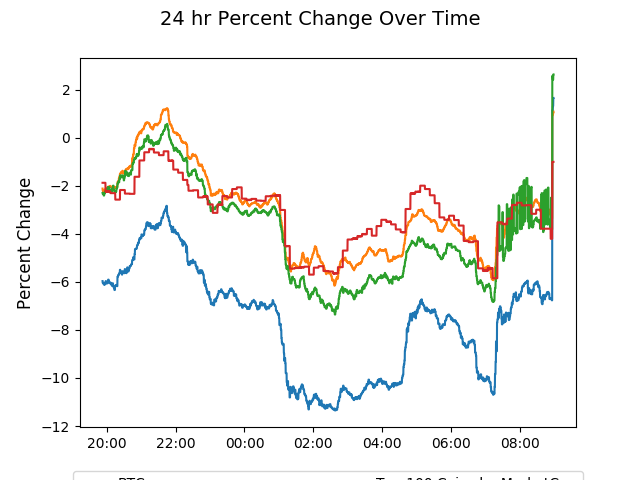
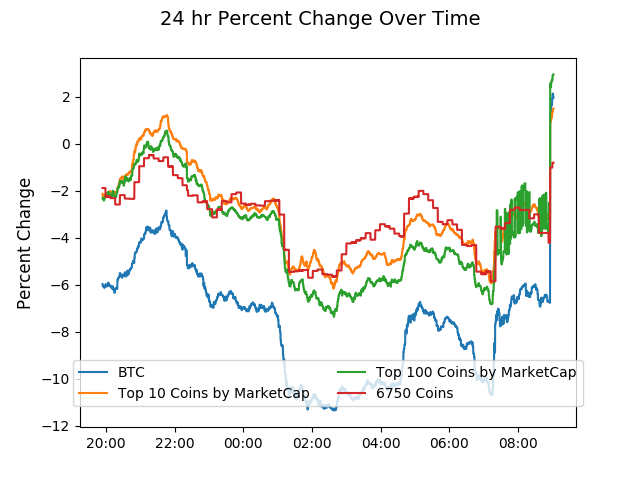
sdf

diff --git a/plot.py b/plot.py
@@ -72,7 +72,7 @@ ax.plot(y_val,x3_val, label = "Top 100 Coins by MarketCap")
 name = str(testList[0][3][1]) + " Coins"
 ax.plot(y_val,x4_val, label = name)
 
-ax.legend(loc='upper center', bbox_to_anchor=(0.5, -0.1), ncol=2)
+ax.legend(loc='upper center', bbox_to_anchor=(0.5, 0.2), ncol=2)
 
 ax.xaxis.set_major_formatter(mdates.DateFormatter("%H:%M"))
 ax.xaxis.set_minor_formatter(mdates.DateFormatter("%H:%M"))
